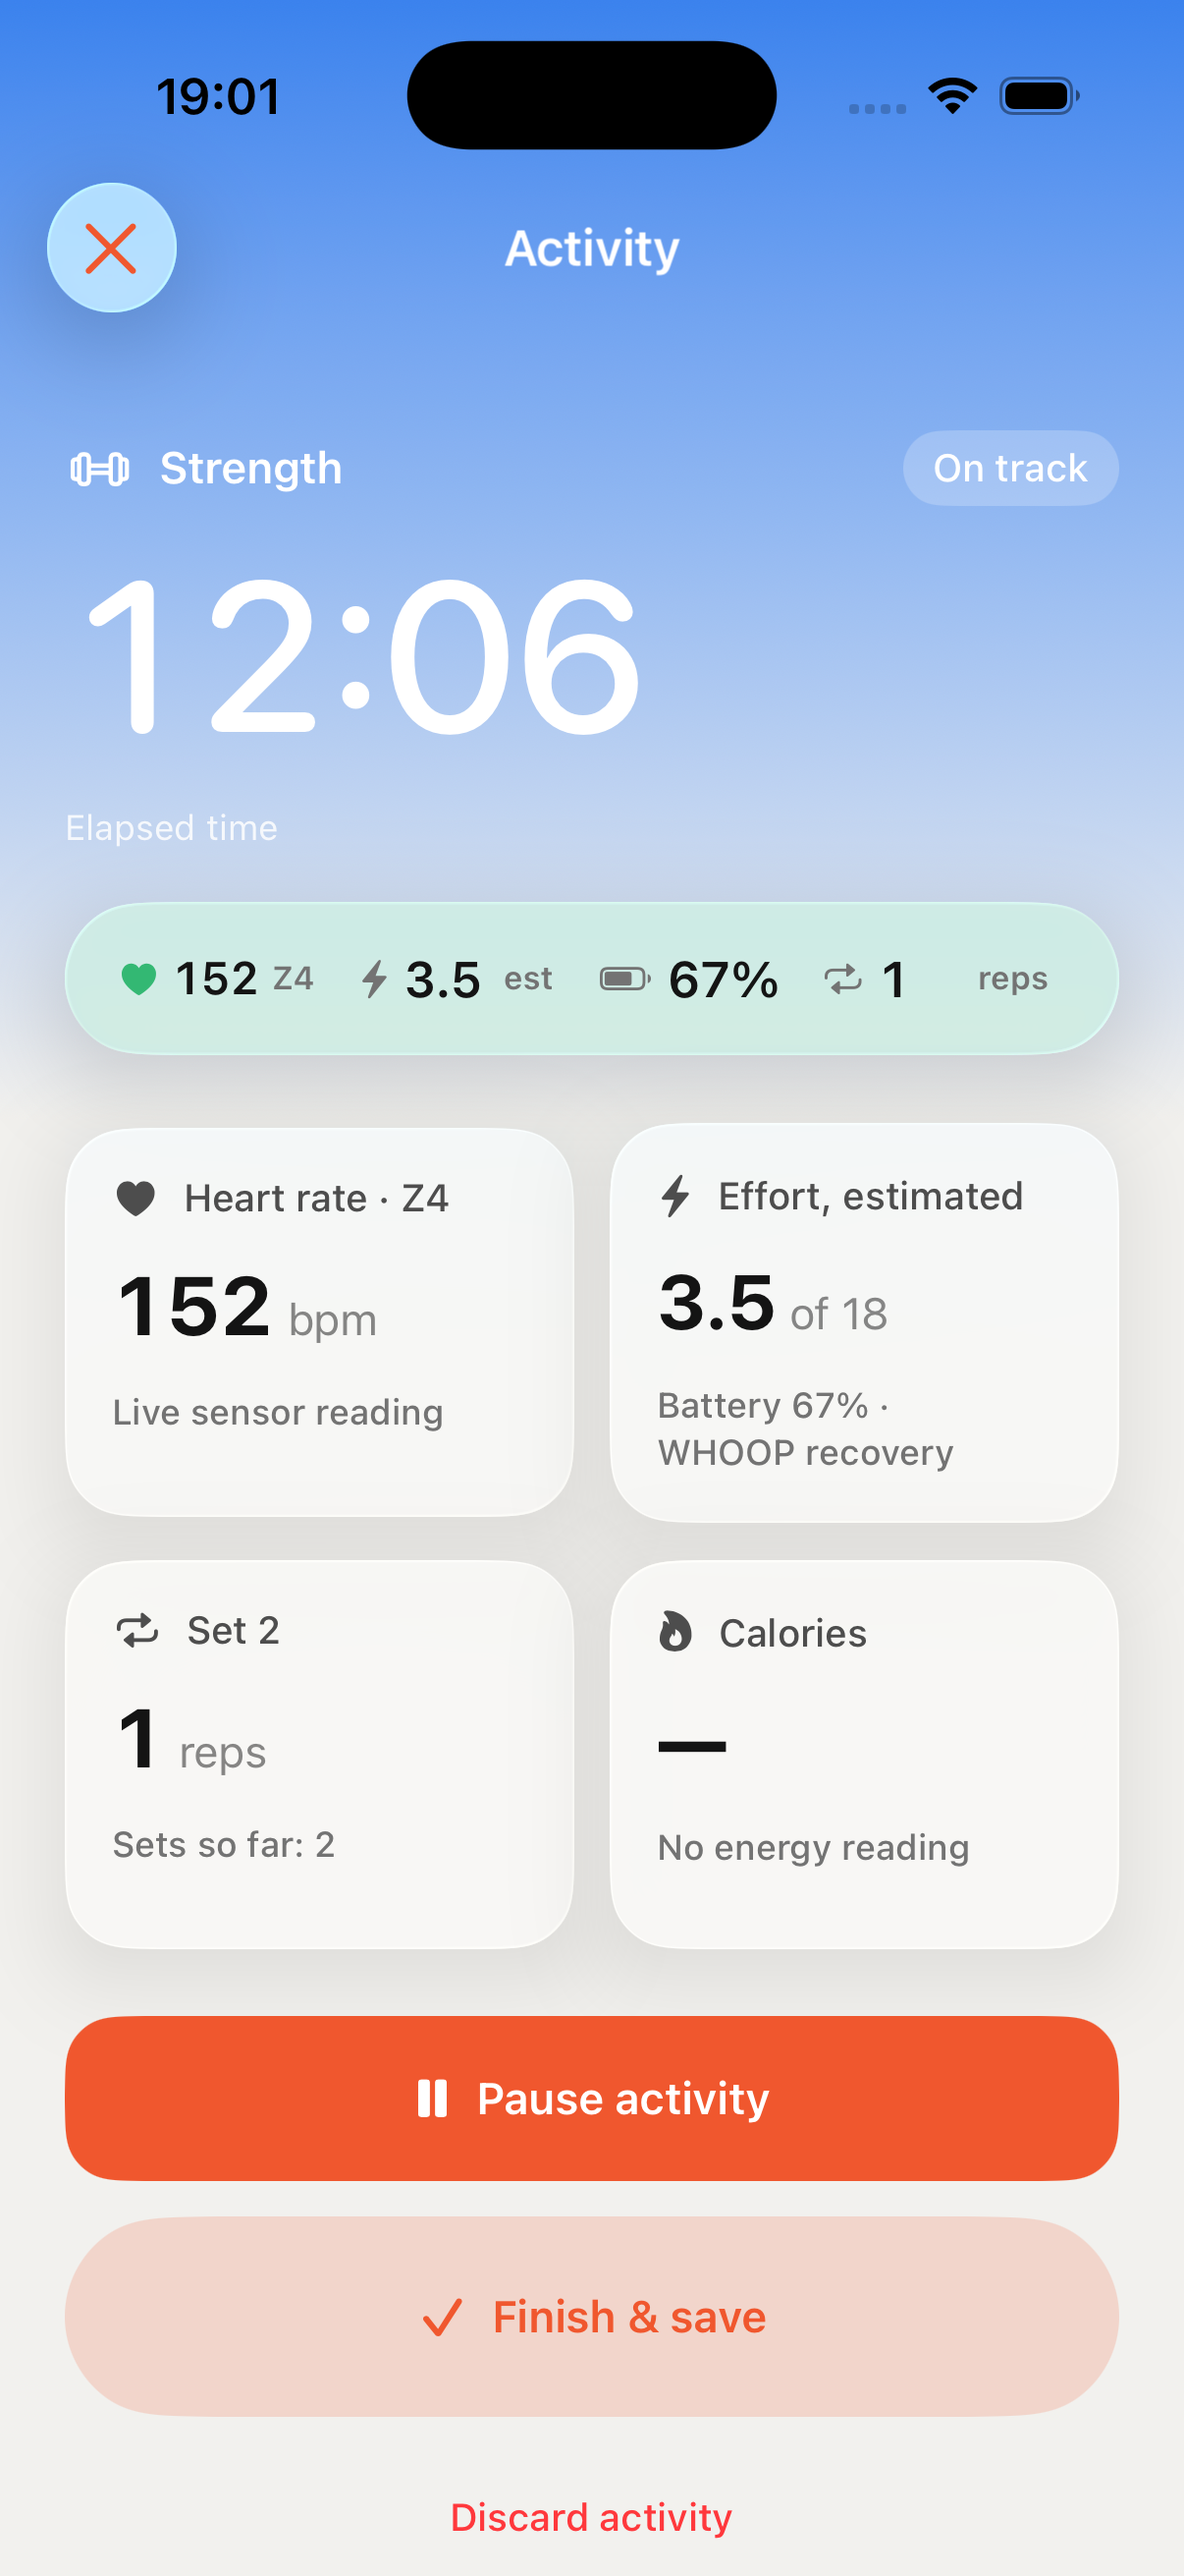
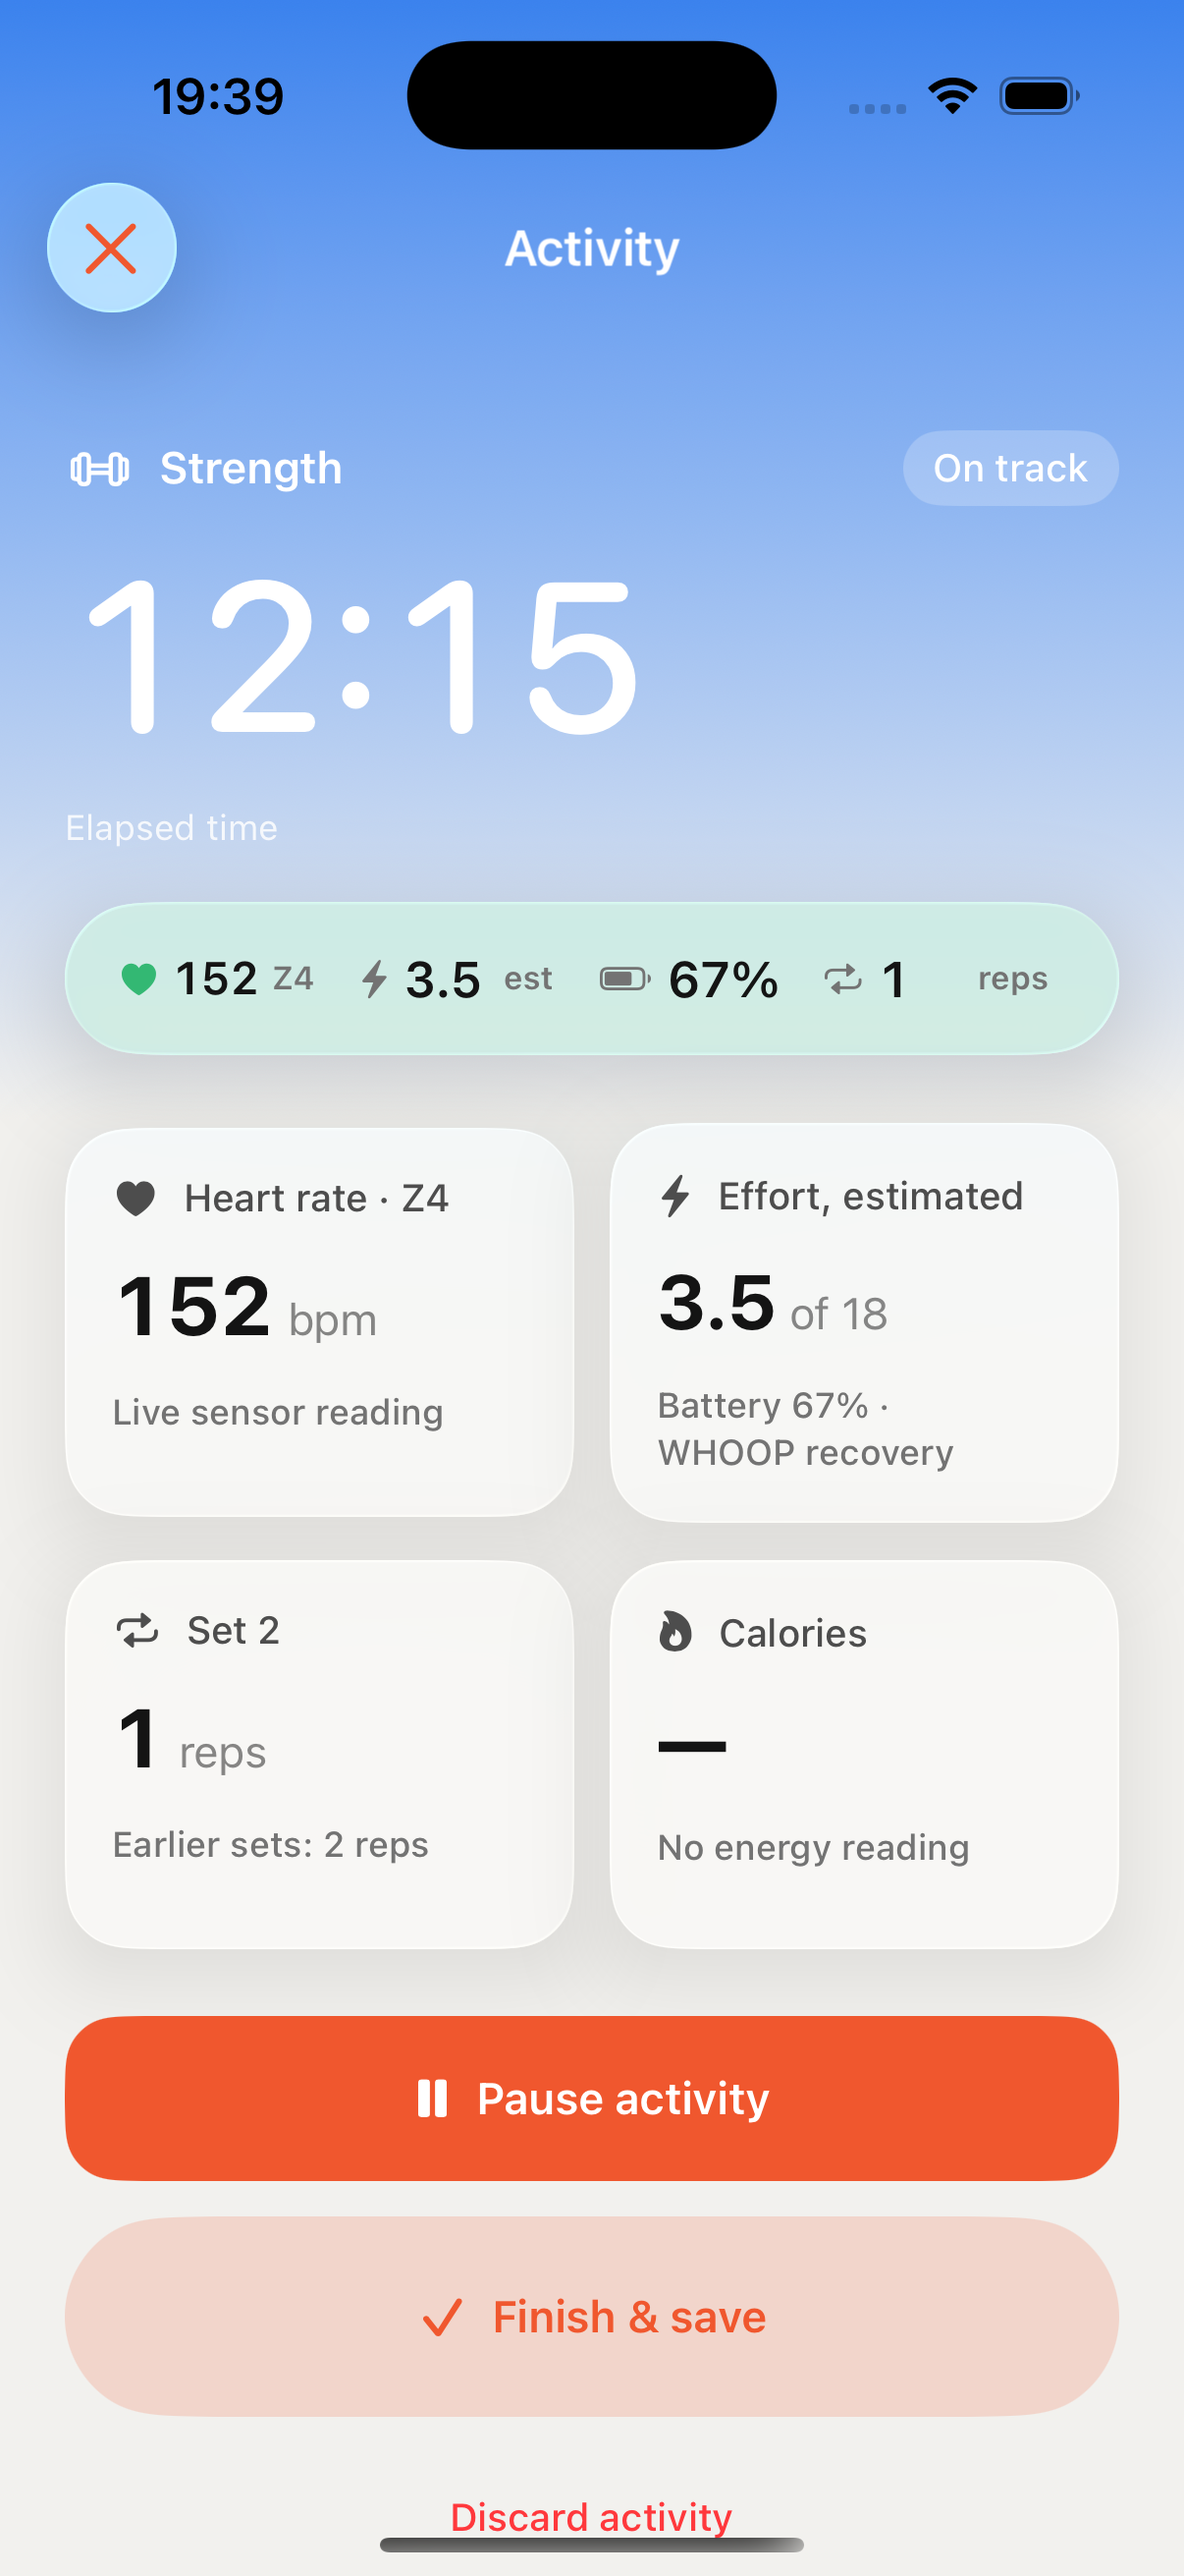
docs(watch): report the final review fixes
Recaptures the strength session in both HUD states, adds the expanded
capture, and records the fix wave, the 29 in-simulator checks and the 1247
package tests.

diff --git a/docs/design/watch-companion/report.md b/docs/design/watch-companion/report.md
@@ -28,7 +28,12 @@ check still pending on Shiv's iPhone and watch.
   - `session-strength-iphone.png` -- launched with
     `--design-preview --page=activity --live --strength`. The HUD capsule
     reads "1 reps", the Reps tile reads "Set 2" with value "1 reps" and
-    caption "Sets so far: 2".
+    caption "Earlier sets: 2 reps".
+  - `session-strength-hud-expanded.png` -- the same fixture with
+    `--hud-expanded` added, so the HUD opens expanded. Below the top row sit
+    the ceiling line, the calories row, and "Set 2 · 1 reps" with the "+1" and
+    "Next set" buttons, all inside the one glass container. No "· auto"
+    suffix: this is a phone session, where every rep is a tap.
   - `session-strength-lock-screen.png` -- same fixture relaunched with
     `--live-activity` added, then locked. The lock-screen card shows
     "Strength - Easy going" and tile three reading "SET 2 / 1".
@@ -115,8 +120,8 @@ One deviation per task, from each task's own report:
 
 ## Interaction and test evidence
 
-- `swift test` total (`LifeOSKit`, this run): **1245 tests in 163 suites
-  passed**, 0 failures.
+- `swift test` total (`LifeOSKit`, after the final-review fixes): **1247 tests
+  in 163 suites passed**, 0 failures.
 - Native app build (`xcodebuild -project LIfeOS.xcodeproj -scheme LIfeOS
   -configuration Debug -destination 'platform=iOS Simulator,name=iPhone 17,
   OS=26.0' build`): `** BUILD SUCCEEDED **`.
@@ -125,7 +130,7 @@ One deviation per task, from each task's own report:
   `** BUILD SUCCEEDED **`.
 - Checks harness output (`--design-preview --page=checks`, clean install,
   iPhone 17 simulator `FC3C3AD5-CD98-4C7C-83AA-5E02587E6E68`, pasted
-  verbatim, 23 of 23 PASS, no FAILs):
+  verbatim, 29 of 29 PASS, no FAILs):
 
 ```
 PASS: Timer starts without Health access
@@ -133,9 +138,15 @@ PASS: Capacity comes from today's recovery at start
 PASS: Readings yield zone and effort
 PASS: A phone strength session starts at set 1 with zero reps
 PASS: Manual reps and sets count on the phone
-PASS: A packet with an unknown version changes nothing
+PASS: A watch packet never reaches a phone session
 PASS: Finishing writes the sets, current set included
+PASS: The wait for the watch says so
 PASS: A watch that does not answer falls back to the phone
+PASS: A watch draft restores as a watch session
+PASS: A watch draft leaves Health saving on
+PASS: A packet with an unknown version changes nothing
+PASS: A current-version packet carries reps and heart rate through
+PASS: Finishing a watch session writes the local record and its sets
 PASS: Health saving off keeps the session on the phone
 PASS: Paused readings accrue nothing
 PASS: Paused time stays fixed
@@ -152,6 +163,70 @@ PASS: Other account has no remembered sensor
 PASS: Forget clears the remembered sensor
 PASS: Account transition stops recording and rejects late starts
 ```
+
+## Final review fixes
+
+The read-only final review (`.superpowers/sdd/2026-09-14-watch-companion/final-review.md`)
+raised one critical and eight important issues. All were landed here; the
+five hardware checks below are still the only unverified part.
+
+- **C1, I1, I2 (the first hand-off).** `PhoneCommand.discard` was added:
+  on the wrist it stops motion, detaches the delegates, discards the builder
+  and ends the session without `finishWorkout()`, so a refused or discarded
+  session never reaches Health. The phone's refusal path and `discard()` send
+  it; `finish()` still sends `.end`. Commands that end the session now go
+  through `WatchSessionBridge.end(after:)`, which drops the session inside the
+  send's completion handler rather than in the same run-loop turn, so the
+  command actually leaves. `watchAvailable` no longer reads `isReachable`
+  (true only while the watch app is already in the foreground); it is
+  `activated && isPaired && isWatchAppInstalled`. The phone asks for its own
+  Health authorization before `startWatchApp`, so the first permission prompt
+  is on the phone, not the wrist, and a refusal falls through to the phone
+  path. The wait now says "Asking your Apple Watch…" instead of a silent ten
+  seconds.
+- **I3 (no Live Activity in a background launch).** When a mirrored session
+  arrives and no recorder is listening, the bridge requests the Live Activity
+  itself and keeps its id in `placeholderSessionID`; the recorder's timer
+  adopts that id (`ActivitySessionState(id:activity:at:)`, new) so the card
+  already on screen is updated rather than duplicated.
+- **I4 (adopting onto a saved timer).** `adoptMirroredSession` treats a
+  finished, saved timer like no timer and builds a fresh one, from the
+  mirrored session's own start date; `start()` clears the timer alongside
+  `saved`.
+- **I5 (the `.watch` restore branch).** A watch draft keeps Health saving on,
+  a recovered session already stopped or ended finishes the timer and says
+  "Your watch finished this workout. Save it here.", and nothing recovered
+  says the watch is still recording and will reconnect.
+- **I6 (manual counts labelled "auto").** `SessionHUD` gained
+  `countsAutomatically`; the "· auto" suffix and the "Counted from your wrist ·
+  auto" caption render only for a watch session. A phone strength session says
+  "Tap +1 for each rep".
+- **I7 (nested buttons).** The expand/collapse button now wraps the collapsed
+  top row alone; the expanded rows, including "+1" and "Next set", sit below it
+  inside the same glass container. Verified on the simulator: tapping "+1" took
+  the count from 1 to 2 and left the HUD expanded.
+- **I8 and the deferred docs.** Spec 4.2 step 4 records the `minPeriod / 2`
+  refractory window and step 1 the rising-swing axis lock; spec 3.1 records the
+  `saveToHealth` precondition and the new availability gate; 3.2 and 3.3
+  describe `.discard` and the `kind` field; section 9's "ends the mirrored one"
+  became "discards".
+- **Deferred fix-before-merge.** `ActivityRecorderChecks` now seeds a `.watch`
+  draft (`ActivityRecorder.seedWatchDraft`, `#if DEBUG`) so the unknown-version
+  check is no longer vacuous: an unknown packet changes nothing, a valid one
+  carries reps 3 and heart rate 130 through, and `finish()` writes the local
+  record with `sets == [3]`. `start()`'s success path adopts the bridge's
+  session itself if the callback was missed.
+- **Minors landed.** `kind` on both wire shapes with a reverse-direction test;
+  the watch screen's timer is pause-aware (`accumulated` plus `runningSince`,
+  like `ActivitySessionState`) and the dead `elapsed` is gone; "Sets so far: 2"
+  became "Earlier sets: 2 reps"; the lock-screen reps tile carries the "reps"
+  unit; `sensor.prepareForSession` runs only for a phone session and adopting a
+  mirrored one stops the strap; the watch half of the recorder moved into
+  `ActivityRecorder+Watch.swift`.
+- **One bug the new check found.** A packet carrying both a heart rate and a
+  rep change published the *previous* rep count, because the single readout
+  refresh ran inside `receiveHeartRate` before the counts were applied. The
+  counts are now applied first.
 
 ## Hardware checks: pending
 
